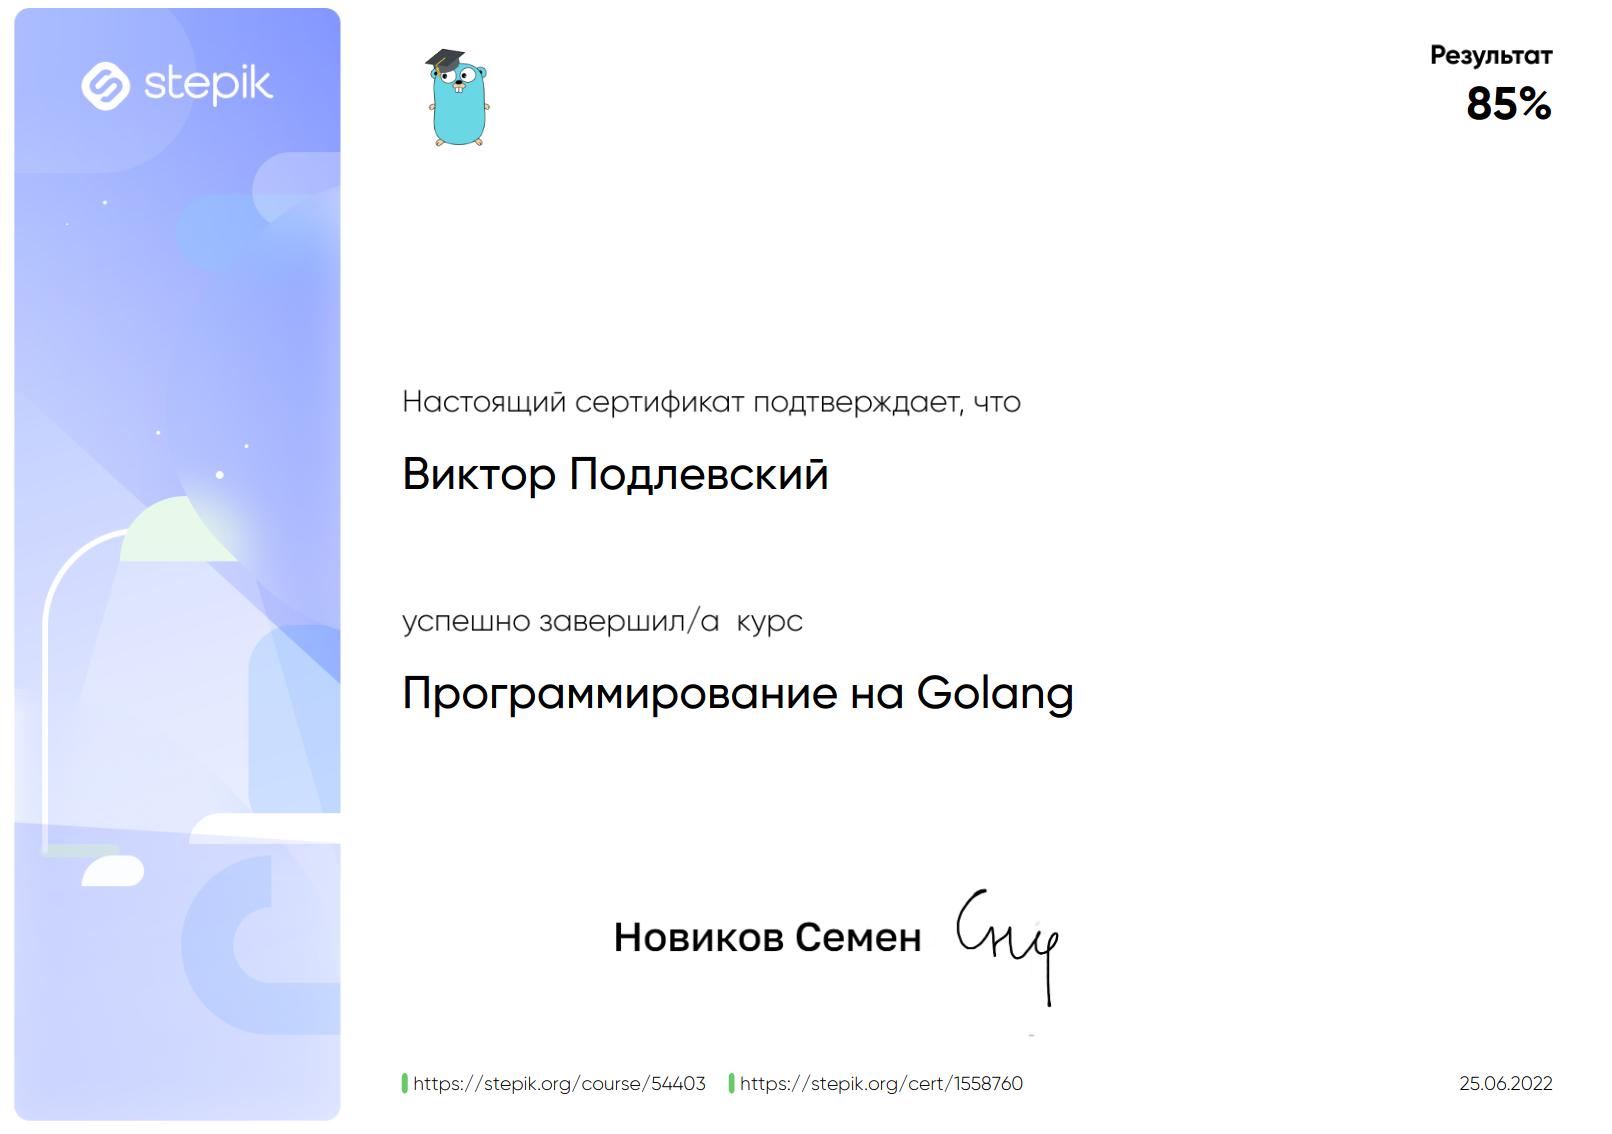
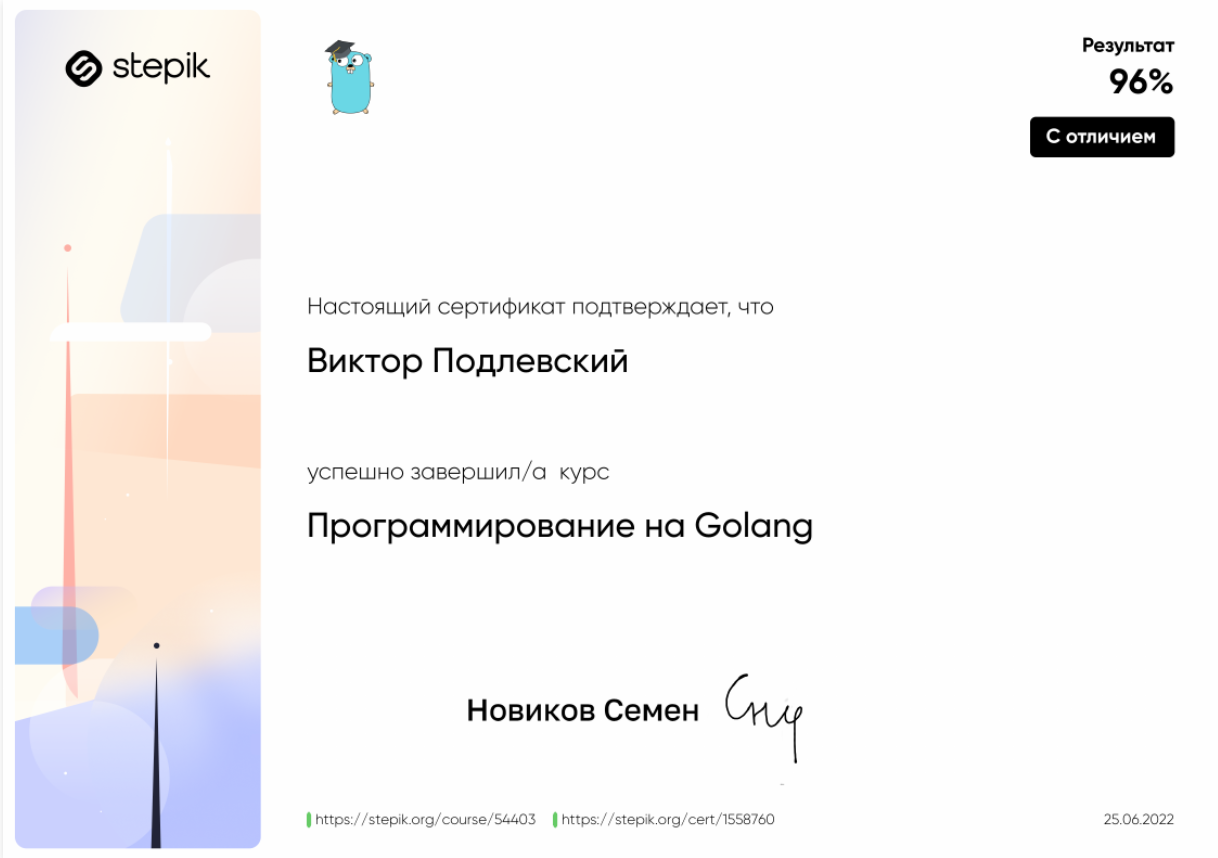
change certificate and start parallelizm

diff --git a/20. parallelism/main4.go b/20. parallelism/main4.go
@@ -1,0 +1,27 @@
+package main
+
+import (
+	"fmt"
+	"sync"
+	"time"
+)
+
+func main() {
+	wg := new(sync.WaitGroup)
+
+	for i := 0; i < 10; i++ {
+		wg.Add(1) // Увеличиваем счетчик горутин в группе
+		go func(wg *sync.WaitGroup) {
+			defer wg.Done()
+			work()
+		}(wg)
+	}
+	wg.Wait() // ожидаем завершения всех горутин в группе
+	fmt.Println("Горутины завершили выполнение")
+}
+
+func work()  {
+	fmt.Printf("Горутина начала выполнение \n")
+	time.Sleep(2 * time.Second)
+	fmt.Printf("Горутина завершила выполнение \n")
+}

diff --git a/20. parallelism/main2.go b/20. parallelism/main2.go
@@ -1,0 +1,39 @@
+package main
+
+ import (
+	"fmt"
+ )
+
+func removeDuplicates(s1 chan string, s2 chan string) {
+	var a string
+	for true {
+		c, ok := <-s1
+		if !ok {
+			close(s2)
+			break
+		} else {
+			if a != c {
+				a = c
+				s2 <- c
+			}
+		}
+	}
+}
+
+func main() {
+	inputStream := make(chan string)
+	outputStream := make(chan string)
+	go removeDuplicates(inputStream, outputStream)
+	
+	go func() {
+	   defer close(inputStream)
+	
+	   for _, r := range "112334456" {
+		  inputStream <- string(r)
+	   }
+	}()
+	
+	for x := range outputStream {
+	   fmt.Print(x)
+	}
+}

diff --git a/20. parallelism/main1.go b/20. parallelism/main1.go
@@ -1,0 +1,16 @@
+package main
+
+// import "fmt"
+
+func task2(c chan string, s string) {
+	for i:=0; i < 5; i++ {
+		c <- s+" "
+	}
+}
+
+func main() {
+	c := make(chan string)
+	go task2(c, "cat")
+	print(<- c)
+	print(<- c)
+}

diff --git a/20. parallelism/main.go b/20. parallelism/main.go
@@ -1,0 +1,13 @@
+package main
+
+import "fmt"
+
+func task(c chan int, N int) {
+	c <- N+1
+}
+
+func main() {
+	c := make(chan int)
+	go task(c, 5)
+	fmt.Println(<- c)
+}

diff --git a/20. parallelism/main3.go b/20. parallelism/main3.go
@@ -1,0 +1,6 @@
+done := make(chan struct{})
+go func(d chan struct{}) {
+    work()
+    close(d)
+}(done)
+<-done
